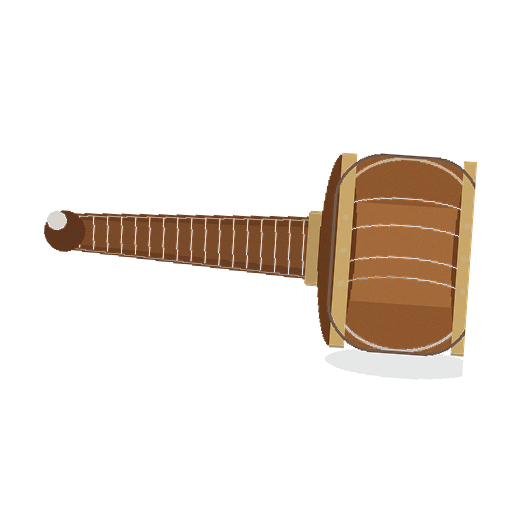
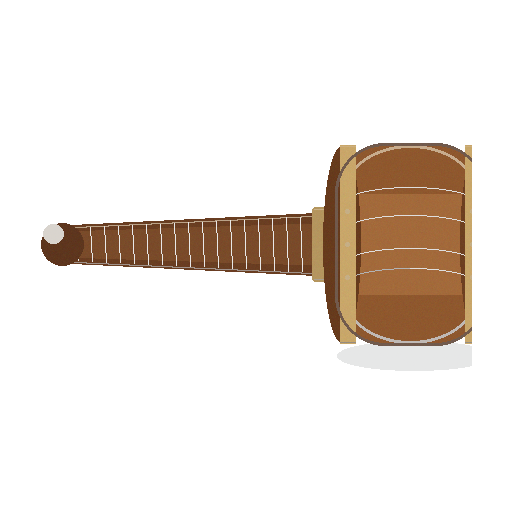
art(mallet): 主轴统一槌头朝+X (#264)
三帧同轴 head→+X；禁先烤12帧；交件 v1.4。合入≠终验。

Changed region(s): [[0.0625, 0.2812, 0.9375, 0.75]]

diff --git a/scripts/gen_mallet_art_sfx.py b/scripts/gen_mallet_art_sfx.py
@@ -1,27 +1,26 @@
 #!/usr/bin/env python3
-"""桌槌 P0 assets (PM REJECT after #248): art_fx_mallet + SFX · table-prop scale.
+"""桌槌 P0 assets: art_fx_mallet* · 主轴统一槌头朝 +X · table-prop scale.
 
-PM REJECT (#248 / 一眼木槌合入后仍失败 终验):
-  - Mallet was THUMBNAIL-sized / invisible in-game (缩略不可见)
-  - Must enlarge to TABLE-PROP scale (桌面道具级主读) — NOT icon/dot
-  - Raise/smash frames still instantly readable wooden mallet:
-      cylindrical head + tapered handle + wood grain + brass bands
-  - Clear RAISE (_up) and SMASH (_hit) frames
-  - REST (_mallet.png) for believe = static only, no animation
-  - Keep SFX unless tiny; hit can stay heavy (~−6 dBFS)
-      peak ~−5..−7 dBFS, 100–140ms, 48k mono, lead silence 0
-  - Soft/near-silent rest optional; believe has NO anim
-  - Safe inset ≤8% (was ≥20%); canvas 512² preferred; fill ~85% silhouette
-  - S19-7 hammer-on-cards is LAYOUT not art (this ticket = art/SFX only)
+PM LOCK (axis unify · after #251 table-prop):
+  - ALL three frames share the SAME principal axis: mallet HEAD toward +X (right)
+  - REST = still, head +X (not random lie / not off-axis)
+  - UP   = raised (lifted) but SAME axis (+X) — NOT head-up baked angle
+  - HIT  = smash along SAME axis (+X) + impact marks — NOT head-down baked angle
+  - Client rotates by seat 0/90/180/270; DO NOT bake 4-dir × 3 = 12 frames
+  - 四向烤帧 only if Rebuild says orientation looks muddy after client rotate
+  - Table-prop: canvas 512²; safe inset ≤8%; silhouette ~85% fill
+  - Clear wooden mallet: cylinder head + tapered handle + grain + brass
+  - Keep heavy hit SFX as-is unless broken (~−6 dBFS)
+  - Zero .ets. 合入 ≠ 终验. S19-7 = layout not art.
 
-Call ids (Aron A / design):
+Call ids:
   lb_sfx_hammer_hit  — Challenge raise→smash wood knock
   lb_sfx_hammer_rest — Believe rest settle (soft optional; no anim)
 
-Art slots:
-  art_fx_mallet.png      — REST / believe (lying; static)
-  art_fx_mallet_up.png   — RAISE (head up)
-  art_fx_mallet_hit.png  — SMASH (head down + impact)
+Art slots (all head → +X):
+  art_fx_mallet.png      — REST / believe (static, head +X)
+  art_fx_mallet_up.png   — RAISE (lifted, head +X)
+  art_fx_mallet_hit.png  — SMASH (impact along +X)
 
 Canvas 512²; safe inset ≤8%; mallet silhouette ~85% fill. Zero .ets. Seeds fixed.
 """
@@ -289,27 +288,39 @@ def _draw_cylinder_head(
 
     face_x = x1 + cap_rx // 2
     if impact:
-        for i, ang in enumerate((-42, -20, 0, 20, 42, -58, 58)):
+        # Longer smash rays + shock ring along +X (pose distinct vs REST; axis still +X)
+        for i, ang in enumerate((-55, -35, -18, 0, 18, 35, 55, -70, 70)):
             rad = math.radians(ang)
-            L = 14 + (i % 3) * 4
+            L = 22 + (i % 4) * 7
             x_b = face_x + int(L * math.cos(rad))
             y_b = hcy + int(L * math.sin(rad))
             ld.line(
                 [(face_x - 2, hcy), (x_b, y_b)],
-                fill=rgba(mix(CANDLE, PAPER, 0.3), 155 - i * 12),
-                width=2 + (1 if i < 3 else 0),
+                fill=rgba(mix(CANDLE, PAPER, 0.35), 175 - i * 10),
+                width=2 + (1 if i < 4 else 0),
             )
-        for dx, dy, rr in ((12, 10, 5), (18, -6, 4), (10, 14, 4), (20, 2, 3)):
+        # Shock crescent at striking face
+        ld.arc(
+            (face_x - 6, hcy - head_rad - 8, face_x + 28, hcy + head_rad + 8),
+            300,
+            60,
+            fill=rgba(mix(CANDLE, PAPER, 0.4), 140),
+            width=3,
+        )
+        for dx, dy, rr in (
+            (14, 12, 6), (24, -8, 5), (12, 18, 5), (28, 2, 4),
+            (20, 16, 4), (32, -12, 3), (18, -18, 4), (36, 8, 3),
+        ):
             ld.ellipse(
                 (face_x + dx - rr, hcy + dy - rr // 2, face_x + dx + rr, hcy + dy + rr // 2),
-                fill=rgba(mix(PAPER, BRASS, 0.1), 45),
+                fill=rgba(mix(PAPER, BRASS, 0.12), 55),
             )
 
     pad = 6
     return (
         x0 - cap_rx // 2 - pad,
         y0 - pad,
-        face_x + (22 if impact else cap_rx // 2) + pad,
+        face_x + (40 if impact else cap_rx // 2) + pad,
         y1 + pad,
     )
 
@@ -431,31 +442,37 @@ def _draw_local_mallet(
 
 
 def draw_mallet(
-    angle_deg: float,
+    angle_deg: float = 0.0,
     *,
     impact: bool = False,
     motion_blur: bool = False,
     seed: int = SEED_ART,
     scale: float = 2.0,
+    lift_y: int = 0,
+    nudge_x: int = 0,
 ) -> Image.Image:
-    """Draw wooden tavern mallet at angle (0=head right, -90=head up).
+    """Draw wooden tavern mallet; principal axis = head toward +X (angle≈0).
 
+    angle_deg: kept for legacy; P0 locks ~0 (head +X). Client does seat rotate.
+    lift_y: negative = raised (UP pose); positive = pressed toward table (HIT).
+    nudge_x: smash along +X (HIT cocked forward); keep head right, no vertical bake.
     Table-prop scale: silhouette fills ~85% of canvas; safe inset ≤8%.
     """
     s = SIZE
     canvas = Image.new("RGBA", (s, s), (0, 0, 0, 0))
     d = ImageDraw.Draw(canvas)
     cx, cy = s // 2, s // 2
-    rng = np.random.default_rng(seed + int(angle_deg * 10) + (7 if impact else 0))
+    rng = np.random.default_rng(seed + int(angle_deg * 10) + (7 if impact else 0) + int(lift_y) + int(nudge_x))
 
-    if abs(angle_deg) < 30 or impact:
-        shadow_r = int(36 if impact else 28)
-        sx = cx + int(52 * math.cos(math.radians(angle_deg)) * scale)
-        sy = cy + int(52 * math.sin(math.radians(angle_deg)) * scale) + (6 if impact else 14)
-        d.ellipse(
-            (sx - shadow_r, sy - shadow_r // 2, sx + shadow_r, sy + shadow_r // 2),
-            fill=rgba(SHADOW, 70 if impact else 55),
-        )
+    # Ground shadow stays near table center; raised pose floats above it
+    shadow_r = int(36 if impact else 28)
+    sx = cx + int(52 * math.cos(math.radians(angle_deg)) * scale)
+    sy = cy + int(52 * math.sin(math.radians(angle_deg)) * scale) + (6 if impact else 14)
+    shadow_a = 85 if impact else (35 if lift_y < -8 else 55)
+    d.ellipse(
+        (sx - shadow_r, sy - shadow_r // 2, sx + shadow_r, sy + shadow_r // 2),
+        fill=rgba(SHADOW, shadow_a),
+    )
 
     local = Image.new("RGBA", (s, s), (0, 0, 0, 0))
     ld = ImageDraw.Draw(local)
@@ -466,12 +483,13 @@ def draw_mallet(
     ys, xs = np.where(la[..., 3] > 12)
     if ys.size:
         bc = ((int(xs.min()) + int(xs.max())) // 2, (int(ys.min()) + int(ys.max())) // 2)
-        dx, dy = cx - bc[0], cy - bc[1]
+        dx, dy = cx - bc[0] + nudge_x, cy - bc[1] + lift_y
         if dx or dy:
             shifted = Image.new("RGBA", (s, s), (0, 0, 0, 0))
             shifted.paste(local, (dx, dy), local)
             local = shifted
 
+    # P0: keep principal axis head +X; angle must stay near 0 (no baked 4-dir)
     rotated = local.rotate(-angle_deg, resample=Image.Resampling.BICUBIC, center=(cx, cy))
     canvas = Image.alpha_composite(canvas, rotated)
 
@@ -539,6 +557,38 @@ def assert_table_prop_scale(
             f"{[round(x, 3) for x in insets]} need opposite sum ≤{2*SAFE_INSET_MAX}"
         )
     return (*insets, long_fill)
+
+
+def assert_head_plus_x(im: Image.Image, label: str) -> float:
+    """Principal axis gate: thick cylinder head must sit toward +X (right).
+
+    Column with max opaque vertical span must lie in the right half of the
+    opaque bbox (head = thick end). Fails if UP/HIT were baked head-up/down.
+    Returns head_col fraction within opaque bbox [0=left .. 1=right].
+    """
+    a = np.array(im.convert("RGBA"))[..., 3]
+    ys, xs = np.where(a > 20)
+    if ys.size == 0:
+        raise SystemExit(f"{label}: empty art (head +X gate)")
+    l, t, r, b = int(xs.min()), int(ys.min()), int(xs.max()) + 1, int(ys.max()) + 1
+    # per-column opaque span height
+    best_x, best_h = l, -1
+    for x in range(l, r):
+        col = a[t:b, x] > 20
+        if not col.any():
+            continue
+        yy = np.where(col)[0]
+        h = int(yy.max() - yy.min() + 1)
+        if h > best_h:
+            best_h = h
+            best_x = x
+    frac = (best_x - l) / max(1, (r - l))
+    if frac < 0.55:
+        raise SystemExit(
+            f"{label}: head not toward +X (thick-col frac={frac:.3f} need ≥0.55; "
+            f"bbox LTRB=({l},{t},{r},{b}) thick_x={best_x})"
+        )
+    return frac
 
 
 def make_hammer_hit() -> np.ndarray:
@@ -764,24 +814,52 @@ def main() -> None:
     frozen_before = {p: sha256_file(p) for p in FROZEN if p.exists()}
 
     # Scale so all poses fill ~85% (safe inset ≤8%) — table-prop, not thumbnail
-    SC = 2.36
+    SC = 2.42
+    # Principal axis lock: ALL frames head toward +X (angle=0). Client seat-rotates.
+    # DO NOT bake 4-dir × 3 = 12 frames (only if Rebuild says rotate looks muddy).
+    AXIS = 0.0
 
-    # REST / believe: lying on side, head right — NO animation
-    rest = draw_mallet(4.0, impact=False, motion_blur=False, seed=SEED_ART, scale=SC)
-    # RAISE: head up, about to strike
-    up = draw_mallet(-80.0, impact=False, motion_blur=True, seed=SEED_ART + 1, scale=SC)
-    # SMASH: head down + impact marks
-    hit = draw_mallet(70.0, impact=True, motion_blur=False, seed=SEED_ART + 2, scale=SC)
+    # REST / believe: still on table, head +X — NO animation
+    rest = draw_mallet(
+        AXIS, impact=False, motion_blur=False, seed=SEED_ART, scale=SC, lift_y=0
+    )
+    # RAISE: cocked/raised above table, SAME axis head +X (not vertical bake)
+    up = draw_mallet(
+        AXIS,
+        impact=False,
+        motion_blur=True,
+        seed=SEED_ART + 1,
+        scale=SC,
+        lift_y=-56,
+        nudge_x=-6,
+    )
+    # SMASH: smash along SAME axis +X (rays + forward nudge; not head-down bake)
+    hit = draw_mallet(
+        AXIS,
+        impact=True,
+        motion_blur=True,
+        seed=SEED_ART + 2,
+        scale=SC,
+        lift_y=14,
+        nudge_x=18,
+    )
 
     assert_art_distinct(rest, up, hit)
     rest_tp = assert_table_prop_scale(rest, "rest")
     up_tp = assert_table_prop_scale(up, "up")
     hit_tp = assert_table_prop_scale(hit, "hit")
+    rest_ax = assert_head_plus_x(rest, "rest")
+    up_ax = assert_head_plus_x(up, "up")
+    hit_ax = assert_head_plus_x(hit, "hit")
     print(
         f"  table-prop inset≤{SAFE_INSET_MAX:.0%} fill≥{1-2*SAFE_INSET_MAX:.0%}: "
         f"rest LTRB={[round(x, 3) for x in rest_tp[:4]]} long={rest_tp[4]:.1%} "
         f"up LTRB={[round(x, 3) for x in up_tp[:4]]} long={up_tp[4]:.1%} "
         f"hit LTRB={[round(x, 3) for x in hit_tp[:4]]} long={hit_tp[4]:.1%}"
+    )
+    print(
+        f"  principal axis head=+X: rest_frac={rest_ax:.3f} "
+        f"up_frac={up_ax:.3f} hit_frac={hit_ax:.3f} (thick-col in right ≥0.55)"
     )
 
     MEDIA.mkdir(parents=True, exist_ok=True)
@@ -812,8 +890,14 @@ def main() -> None:
     print("frozen slots not written: flip / extinguish / launch / land / challenge / reveal")
     for path, digest in frozen_before.items():
         print(f"  {path.name} sha256 {digest}")
-    print("zero .ets · PM REJECT 缩略不可见→桌面道具级 · seed art=202609211 hit/rest Foley kept")
-    print(f"SIZE={SIZE} SAFE_INSET_MAX={SAFE_INSET_MAX} SC={SC} HIT_PEAK_DB={HIT_PEAK_DB} HIT_DUR_S={HIT_DUR_S}")
+    print(
+        "zero .ets · 主轴统一槌头朝+X · client 按座 0/90/180/270 旋 · "
+        "四向烤帧仅 Rebuild 糊再开 · seed art=202609211 hit/rest Foley kept"
+    )
+    print(
+        f"SIZE={SIZE} SAFE_INSET_MAX={SAFE_INSET_MAX} SC={SC} AXIS={AXIS} "
+        f"HIT_PEAK_DB={HIT_PEAK_DB} HIT_DUR_S={HIT_DUR_S}"
+    )
 
 
 if __name__ == "__main__":

diff --git a/docs/04-设计/质疑相信-桌槌-资产交件.md b/docs/04-设计/质疑相信-桌槌-资产交件.md
@@ -2,11 +2,11 @@
 
 | 项 | 内容 |
 |----|------|
-| 文档版本 | **v1.3**（PM REJECT · 缩略不可见 → 桌面道具级主读） |
+| 文档版本 | **v1.4**（主轴统一槌头朝 +X · client 按座旋） |
 | 状态 | **交件 ≠ 占位** · **合入 ≠ 终验** · **零 ets** |
 | 本 PR | `feat/art` → `develop`（常驻美术支；**不**删支、**不**开 `feat/art-*` 一次性支） |
 | 生成 | `scripts/gen_mallet_art_sfx.py`（Pillow 画槌帧 + numpy 程序化 Foley；固定 seed） |
-| 对齐 | PM REJECT after #248 · 设计 [质疑相信-桌槌表现](../02-游戏设计/质疑相信-桌槌表现.md) v0.2 · 质疑=抬砸 / 相信=静置 · 人模零改 |
+| 对齐 | PM LOCK 主轴 +X · 设计桌槌 v0.3.5 单朝旋座 · 质疑=抬砸 / 相信=静置 · 人模零改 · **禁先烤 12 帧** |
 | 署名 | 自研程序化 · 见 §4 |
 
 > **三帧美术 + 两枚 SFX。**  
@@ -17,17 +17,19 @@
 
 ---
 
-## 0. PM REJECT（相对 #248 / 一眼木槌仍失败终验）
+## 0. PM LOCK（v1.4 · 主轴统一槌头朝 +X）
 
-| 打回点 | 处理 |
-|--------|------|
-| **缩略不可见** — 槌在局内像图标/点，非桌面道具 | 画布 **512×512**；安全边距 **≤8%**（原 ≥20%）；长轴剪影填充 **~85%**；脚本 `assert_table_prop_scale` 闸 |
-| 抬/砸帧仍须一眼木槌 | 保持：**圆柱桶头** + **锥形柄** + 暖酒馆木纹 + **铜箍铆钉**；禁勺碗/法槌玩具块/抽象 blob |
-| REST / UP / HIT 语义不变 | REST=相信静置；UP=抬起清晰；HIT=砸下清晰；相信**无动画** |
-| SFX | **保留**（未改字节）：hit 仍加重 **≈ −6 dBFS** · 125ms · 48k mono · 头静音 0 |
-| **S19-7 锤压在牌上** | **布局/锚点问题，非本票美术**（见 17a / client 分座锚） |
+| 打回 / 锁 | 处理 |
+|-----------|------|
+| **主轴不统一** — UP/HIT 曾烤垂直/斜角，client 旋座糊 | **三帧同主轴：槌头朝 +X（右）**；REST 静置 +X；UP 抬起仍 +X；HIT 沿 +X 砸 + 冲击线 |
+| **禁先烤 12 帧** | **不**做 4 向 × 3 = 12；**client 按座 0/90/180/270 旋**；四向烤帧 **仅 Rebuild 糊再开** |
+| 桌面道具级（承 #251） | 画布 **512×512**；inset **≤8%**；长轴 **~85%**；`assert_table_prop_scale` + `assert_head_plus_x` |
+| 一眼木槌 | **圆柱桶头** + **锥形柄** + 暖木纹 + **铜箍**；禁勺碗/法槌玩具/blob |
+| REST / UP / HIT | REST=相信静置；UP=抬起（同轴抬高）；HIT=砸（同轴冲击）；相信**无动画** |
+| SFX | **保留**（字节未改）：hit **≈ −6 dBFS** · 125ms · 48k mono · 头静音 0 |
+| **S19-7 锤压牌** | **布局/锚点**，非本票美术 |
 
-> 合入 #248 ≠ 终验。形闸：缩略图标 = 失败；桌面道具级主读（长轴 ~85% 填充）+ 圆柱头锥柄暖木纹 = 通过。
+> **主轴统一槌头朝 +X**；client 按座旋。合入 ≠ 终验。形闸：头不在 +X / 缩略图标 / 先烤 12 帧 = 失败。
 
 ---
 
@@ -48,9 +50,9 @@
 
 | 文件 | 媒体 id | 姿态 | 何时 |
 |------|---------|------|------|
-| `art_fx_mallet.png` | `art_fx_mallet` | **搁置 / 基姿**（近水平侧放，头朝右） | 相信搁置；默认落点 · **无动画** |
-| `art_fx_mallet_up.png` | `art_fx_mallet_up` | **抬起**（砸序列帧 1 · 头朝上） | 质疑抬起 |
-| `art_fx_mallet_hit.png` | `art_fx_mallet_hit` | **砸落冲击**（砸序列帧 2 + 短尘线） | 质疑砸下 |
+| `art_fx_mallet.png` | `art_fx_mallet` | **搁置 / 基姿**（**主轴槌头朝 +X**，静置） | 相信搁置；默认落点 · **无动画** |
+| `art_fx_mallet_up.png` | `art_fx_mallet_up` | **抬起**（砸序列帧 1 · **同轴 +X** 抬高） | 质疑抬起 |
+| `art_fx_mallet_hit.png` | `art_fx_mallet_hit` | **砸落冲击**（砸序列帧 2 · **同轴 +X** + 冲击线） | 质疑砸下 |
 
 规格：RGBA **512×512**（桌面道具级；原 360² 缩略级已废）；四角 alpha=0；**安全边距 ≤8%**；长轴剪影 **~85%** 画布；非同姿换色（alpha 掩模互异）；须读出 **圆柱头木槌**（锥柄 + 铜箍），**禁止**玩具/木勺/抽象 blob / 图标点。
 
@@ -72,24 +74,25 @@
 
 ---
 
-## 3. 实测（v1.3 · PM REJECT 桌面道具级）
+## 3. 实测（v1.4 · 主轴统一槌头朝 +X）
 
 ### 3.1 美术
 
 | 项 | `art_fx_mallet` | `art_fx_mallet_up` | `art_fx_mallet_hit` |
 |----|-----------------|--------------------|---------------------|
 | 尺寸 | **512×512** RGBA | **512×512** RGBA | **512×512** RGBA |
-| 姿态角（约） | +4° 近水平侧放 | −80° 抬起（头上） | +70° 砸下 + 冲击线 |
+| 主轴 | **槌头朝 +X（0°）** | **同轴 +X**（抬高，非垂直烤） | **同轴 +X**（冲击线，非斜下烤） |
 | 材质 | 暖棕圆柱桶头 + 锥柄 + 铜箍铆钉 | 同材质 + 轻运动模糊 | 同材质 + 冲击尘线 |
-| 安全边距 L/T/R/B | **0.086 / 0.297 / 0.068 / 0.260** | **0.316 / 0.051 / 0.223 / 0.092** | **0.352 / 0.098 / 0.156 / 0.037** |
-| 长轴填充 | **84.6%** | **85.7%** | **86.5%** |
-| 字节 | **105034** | **113601** | **118588** |
[1 lines of base64/hex data omitted]
+| 安全边距 L/T/R/B | **0.080** / **0.279** / **0.078** / **0.275** | **0.068** / **0.170** / **0.090** / **0.385** | **0.115** / **0.307** / **0.043** / **0.248** |
+| 长轴填充 | **84.2%** | **84.2%** | **84.2%** |
+| 字节 | **90538** | **94892** | **95061** |
[1 lines of base64/hex data omitted]
 | seed | **202609211** | **202609212**（art+1） | **202609213**（art+2） |
 
-形闸自检：rest/up / rest/hit alpha 掩模差均 **≥0.20**（脚本断言 ≥0.04）——非同姿换色。  
-尺度闸：脚本 `assert_table_prop_scale` — 长轴填充 **≥84%**（inset ≤8%）；禁缩略图标。  
-外形闸：圆柱桶头 + 锥形柄 + 暖木纹 + 铜箍 —— **非**玩具/法庭木勺；**桌面道具级主读**。
+形闸：rest/up / rest/hit alpha 掩模差脚本断言 **≥0.04**——非同姿换色。  
+主轴闸：`assert_head_plus_x` — 粗端（桶头）列落在 opaque bbox **右侧 ≥0.55**。  
+尺度闸：`assert_table_prop_scale` — 长轴 **≥84%**（inset ≤8%）。  
+**落地**：client 按座 **0/90/180/270** 旋；**禁** P0 先烤 12 张；四向烤帧仅 Rebuild 糊再开。
 
 ### 3.2 音频（本票保留 · 字节未改）
 
@@ -140,6 +143,7 @@
 | 改人模 / 换座贴图 | 设计锁：人模零改 |
 | 用美术「撑大」解决 S19-7 | **S19-7 锤压牌 = 布局锚点**，非本票 |
 | 任何 `.ets` | **本 PR 零 ets** |
+| 先烤 4×3=12 分向帧 | **主轴只 +X 一朝**；client 旋座；Rebuild 糊再开四向 |
 | 开 `feat/art-*` 一次性支 / 合入后删 `feat/art` | 常驻 `feat/art` only |
 
 ---
@@ -150,4 +154,4 @@
 python3 scripts/gen_mallet_art_sfx.py
 ```
 
-合入 ≠ 终验。后续 `feat/client-*` 换绑 `lb_cmp_choice_act` / 调试二键；S19-7 落点见 17a / client 分座锚。
+合入 ≠ 终验。**主轴统一槌头朝 +X**；client 按座旋。后续 client 旋座绑定；S19-7 落点见 17a / client 分座锚。
